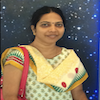
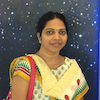
Image replaced

diff --git a/chennai.html b/chennai.html
@@ -285,7 +285,7 @@
       </span>
 
       <span class="grid_2 first">
-        <img src="./images/chennai/team-ic13.png" alt="Poongothai" />
+        <img src="./images/chennai/team-ic13.jpeg" alt="Poongothai" />
         <h6>Poongothai</h6>
         <small>Mentor</small>
       </span>
